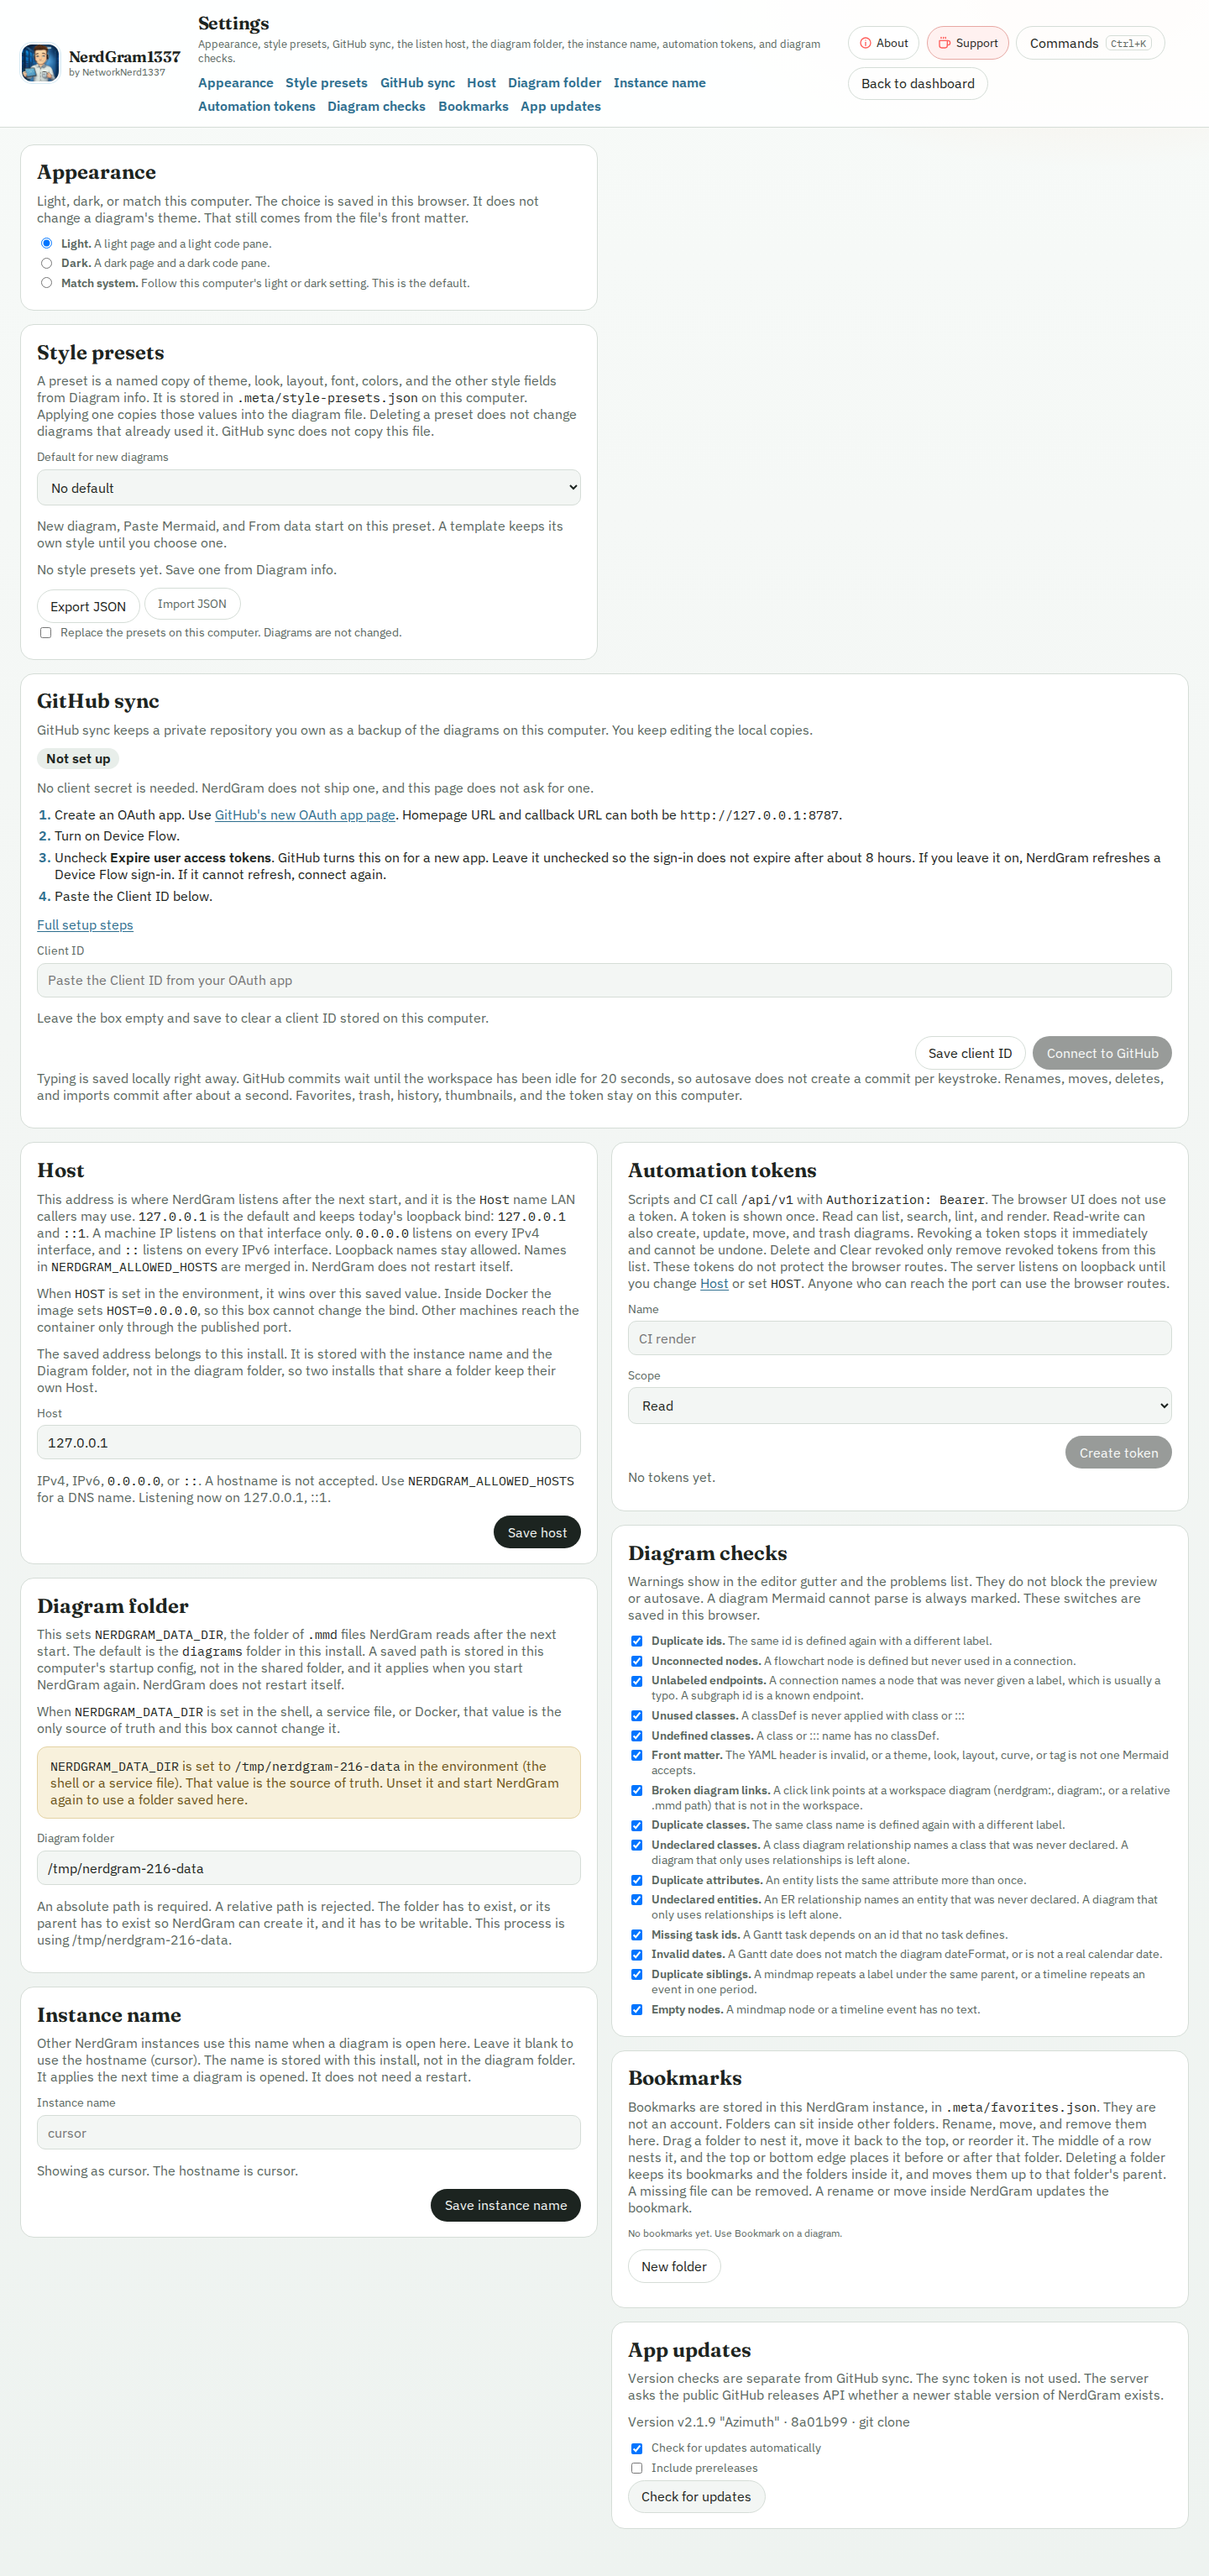
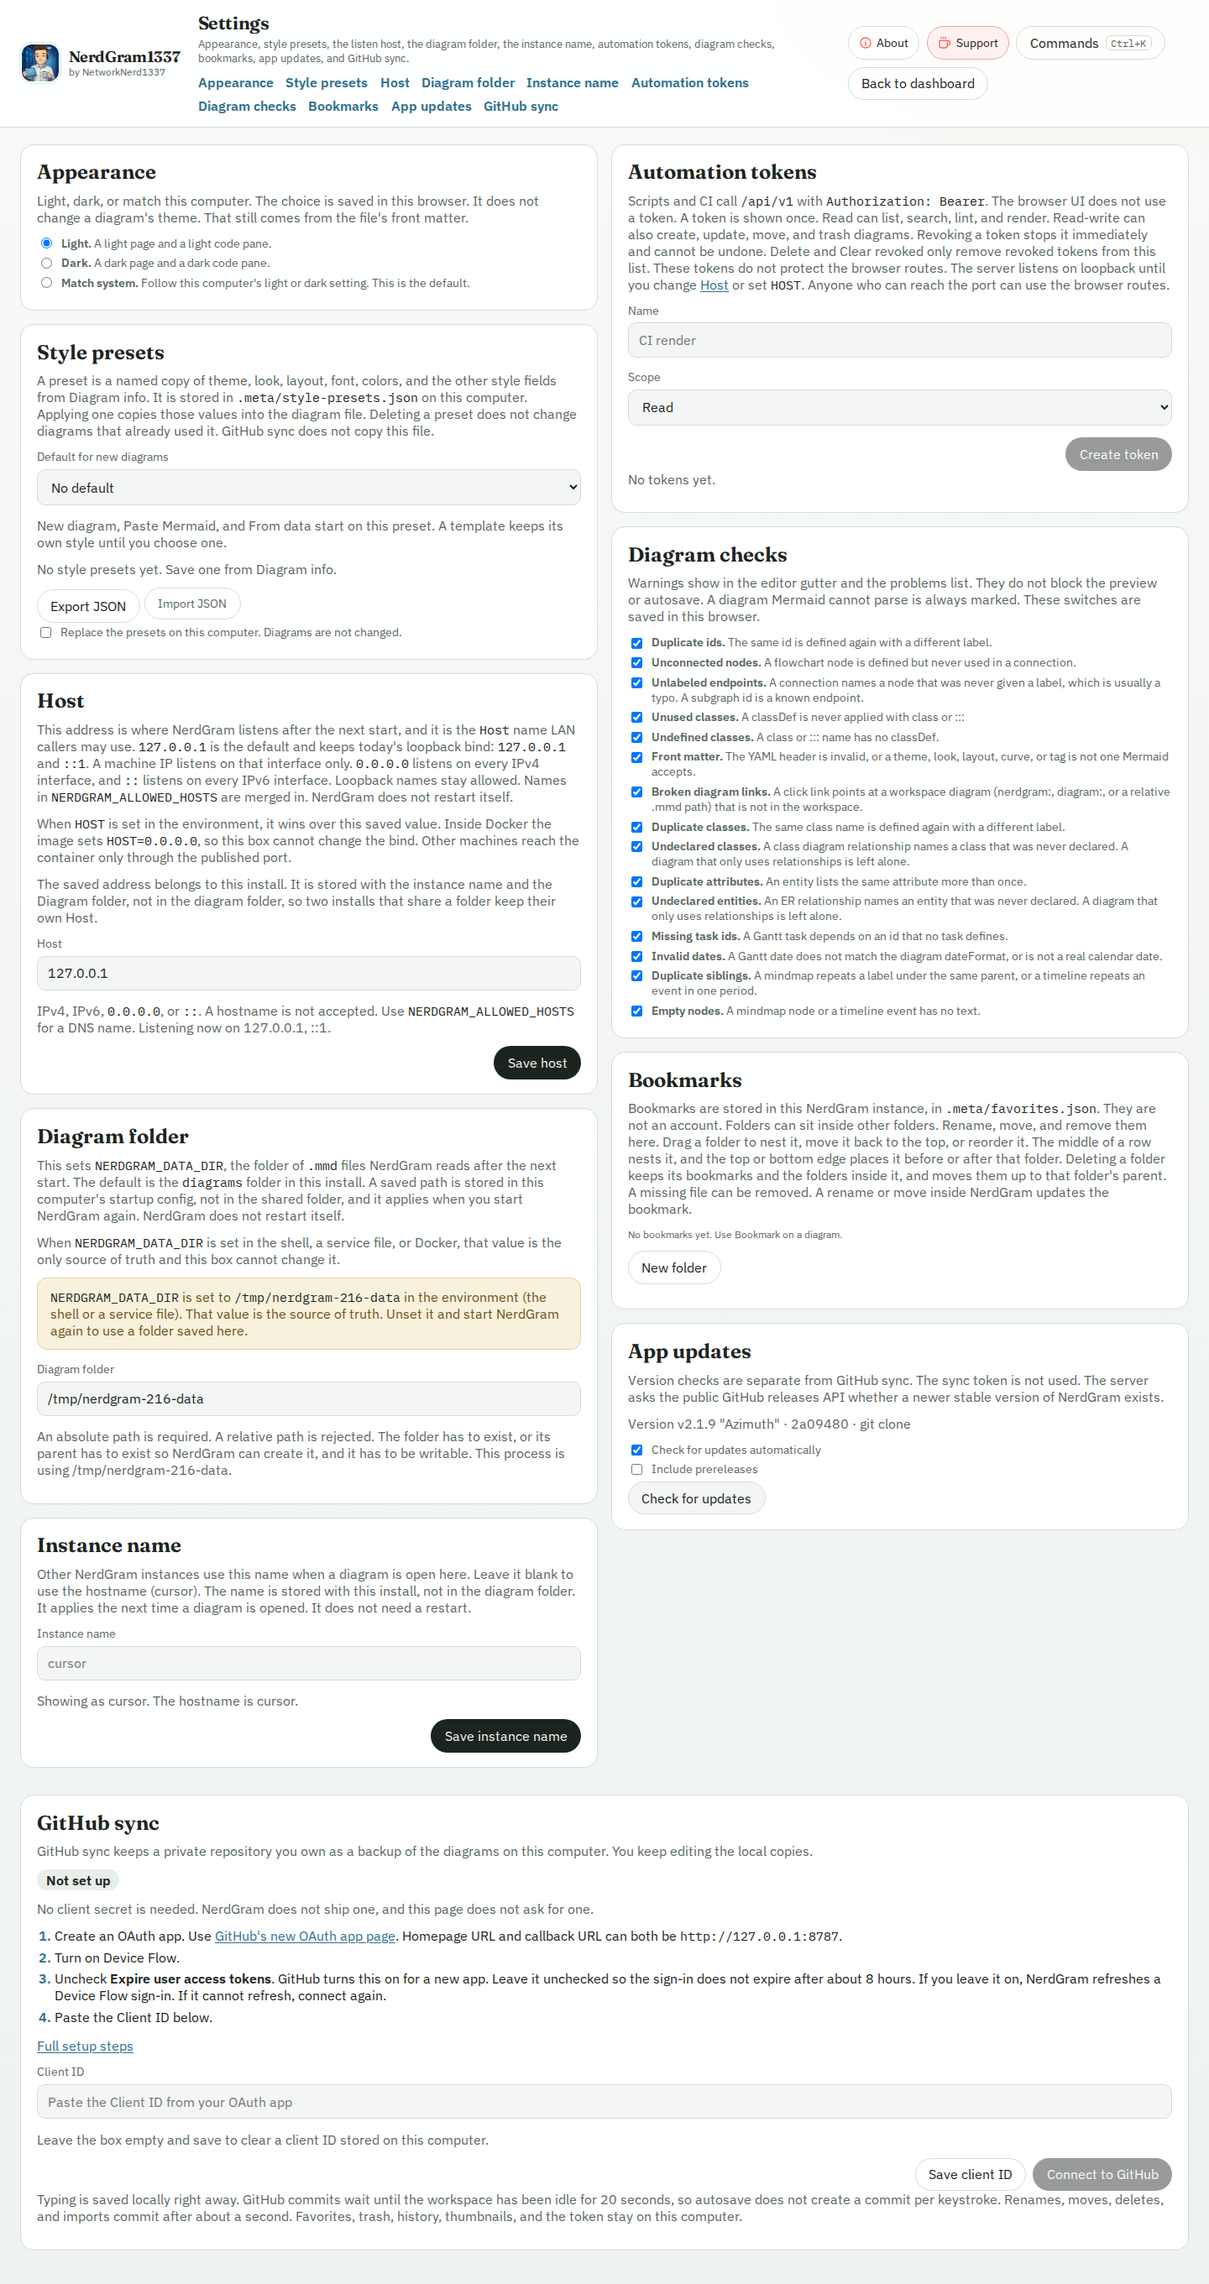
Place GitHub sync under the two settings columns.
A full-width card in the middle left the right column empty. The shorter cards now fill both columns, and GitHub sync is last.

diff --git a/client/src/pages/SettingsPage.tsx b/client/src/pages/SettingsPage.tsx
@@ -113,12 +113,11 @@ export function SettingsPage() {
           <div>
             <h1>Settings</h1>
             <p className="reference-meta">
-              Appearance, style presets, GitHub sync, the listen host, the diagram folder, the instance name, automation tokens, and diagram checks.
+              Appearance, style presets, the listen host, the diagram folder, the instance name, automation tokens, diagram checks, bookmarks, app updates, and GitHub sync.
             </p>
             <nav className="settings-nav" aria-label="Settings sections">
               <a href="#appearance">Appearance</a>
               <a href="#style-presets">Style presets</a>
-              <a href="#github-sync">GitHub sync</a>
               <a href="#host">Host</a>
               <a href="#diagram-folder">Diagram folder</a>
               <a href="#instance">Instance name</a>
@@ -126,6 +125,7 @@ export function SettingsPage() {
               <a href="#diagram-checks">Diagram checks</a>
               <a href="#bookmarks">Bookmarks</a>
               <a href="#app-updates">App updates</a>
+              <a href="#github-sync">GitHub sync</a>
             </nav>
           </div>
         </div>
@@ -140,8 +140,24 @@ export function SettingsPage() {
       </header>
 
       <main className="sync-page">
+        <div className="settings-columns">
         <AppearanceSettings />
         <StylePresetsSettings />
+        <HostSettings />
+        <DiagramFolderSettings githubSync={status?.enabled === true} />
+        <InstanceSettings />
+        <TokenSettings />
+        <LintSettings />
+        <BookmarkManager />
+        <section className="sync-card" id="app-updates">
+          <h2>App updates</h2>
+          <p>
+            Version checks are separate from GitHub sync. The sync token is not used. The server
+            asks the public GitHub releases API whether a newer stable version of NerdGram exists.
+          </p>
+          <UpdateSettingsFields />
+        </section>
+        </div>
         <section className="sync-card" id="github-sync">
           <h2>GitHub sync</h2>
           <p>
@@ -449,20 +465,6 @@ export function SettingsPage() {
             ))}
           </section>
         ) : null}
-        <HostSettings />
-        <DiagramFolderSettings githubSync={status?.enabled === true} />
-        <InstanceSettings />
-        <TokenSettings />
-        <LintSettings />
-        <BookmarkManager />
-        <section className="sync-card" id="app-updates">
-          <h2>App updates</h2>
-          <p>
-            Version checks are separate from GitHub sync. The sync token is not used. The server
-            asks the public GitHub releases API whether a newer stable version of NerdGram exists.
-          </p>
-          <UpdateSettingsFields />
-        </section>
       </main>
 
       {disconnectOpen ? (

diff --git a/client/src/index.css b/client/src/index.css
@@ -3793,26 +3793,29 @@ body.is-col-resizing * {
   max-width: 860px;
 }
 
-/* Wide windows flow cards down two columns. A row of pairs would leave a gap beside a short card. */
+.settings-columns {
+  display: flex;
+  flex-direction: column;
+  gap: 1rem;
+}
+
+/* Wide windows flow the short cards down two columns. GitHub sync stays full width under that block, so a spanning card does not leave an empty column above it. */
 @media (min-width: 1100px) {
   .settings-screen .sync-page {
-    display: block;
     max-width: none;
+  }
+
+  .settings-screen .settings-columns {
+    display: block;
     columns: 2;
     column-gap: 1rem;
   }
 
-  .settings-screen .sync-page > .sync-card {
+  .settings-screen .settings-columns > .sync-card {
     display: inline-block;
     width: 100%;
     margin: 0 0 1rem;
     break-inside: avoid;
-  }
-
-  .settings-screen .sync-page > #github-sync {
-    display: block;
-    width: auto;
-    column-span: all;
   }
 }
 

diff --git a/docs/features.md b/docs/features.md
@@ -161,9 +161,9 @@ Color fields under Theme variables show a row of swatches. Workspace colors come
 
 ## Appearance
 
-**Appearance** on the settings page (`/settings#appearance`) is **Light**, **Dark**, or **Match system**. Match system is the default. The choice is saved in this browser. It is not an account, and it is not stored on the server. On a wide window the settings cards flow down two columns, and **GitHub sync** spans both. Below about 1100 pixels the cards stack in one column. The jump links at the top of the page still scroll to the matching card.
+**Appearance** on the settings page (`/settings#appearance`) is **Light**, **Dark**, or **Match system**. Match system is the default. The choice is saved in this browser. It is not an account, and it is not stored on the server. On a wide window the shorter settings cards flow down two columns. **GitHub sync** is the full-width card at the bottom, after that block. Below about 1100 pixels every card stacks in one column, and GitHub sync is still last. The jump links at the top of the page follow that order and still scroll to the matching card.
 
-![Settings cards in two columns, with GitHub sync across both.](images/settings.png)
+![Settings cards in two columns, with GitHub sync full width at the bottom.](images/settings.png)
 
 The dashboard, sidebar, settings, dialogs, the reference, and the editor, including the code pane, follow that choice. The page is painted with the saved choice before the first frame, so a dark choice does not flash light. Match system follows the computer, including when the computer changes.
 
